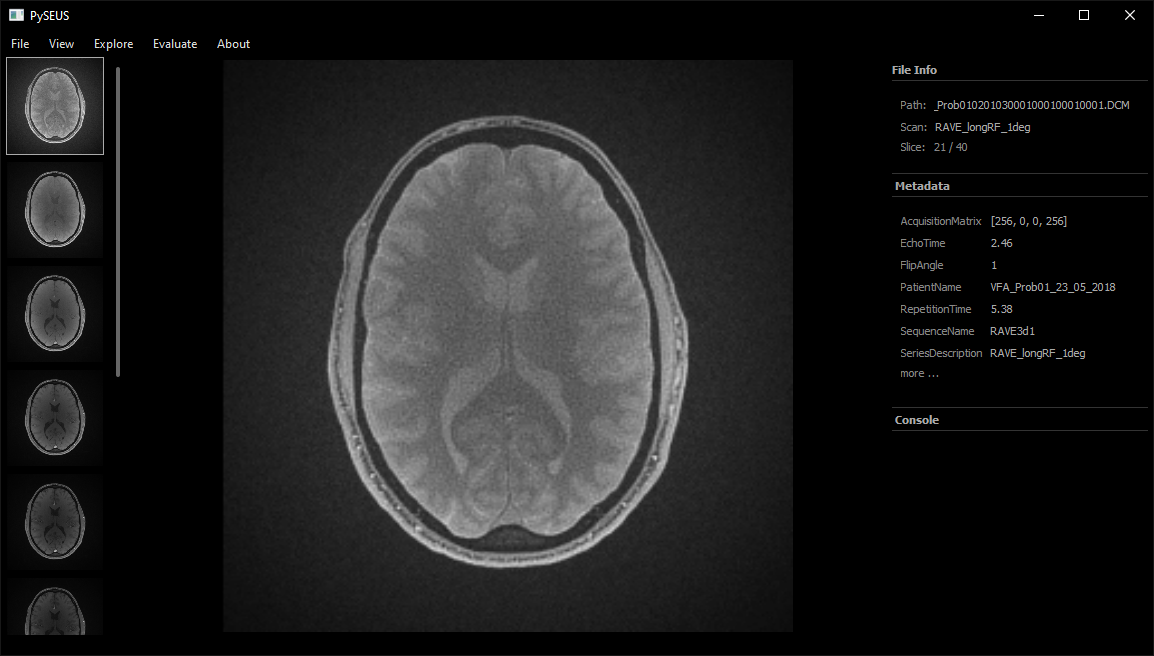
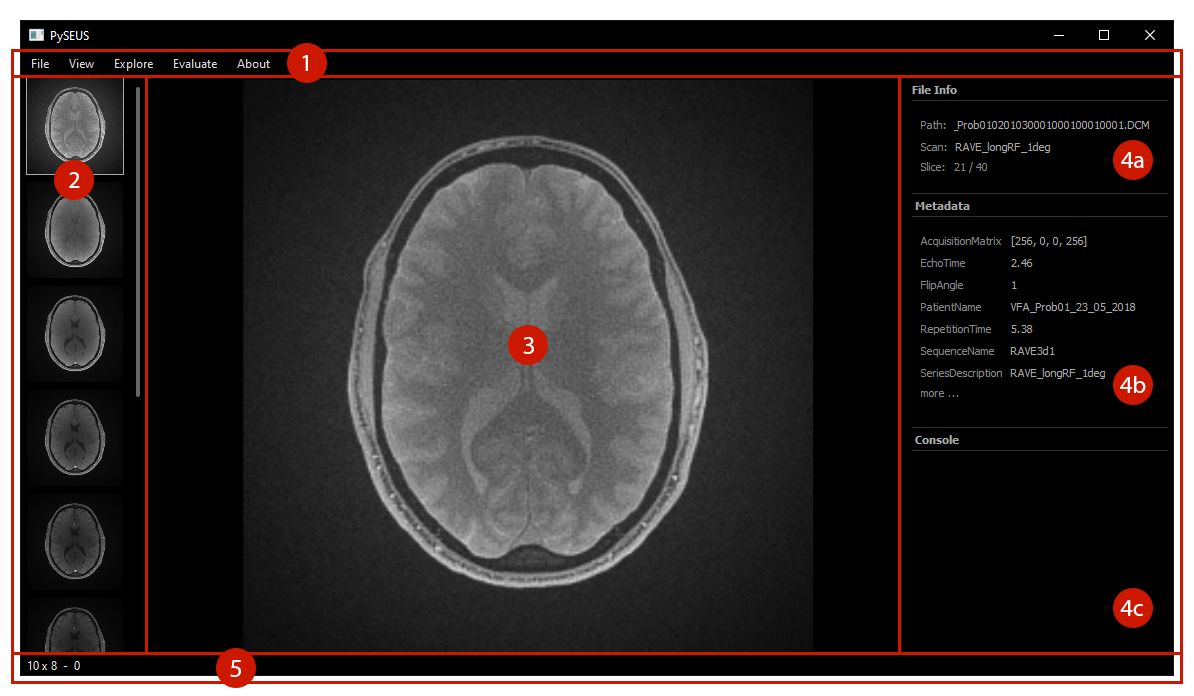
screenshot update

diff --git a/docs/source/usage/interface.rst b/docs/source/usage/interface.rst
@@ -4,27 +4,27 @@ Interface
 .. image:: ../_static/dicom_multi.png
    :width: 600
 
-**Menu bar**: The menu bar at the top allows access to all functions. See 
+**(1) Menu bar**: The menu bar at the top allows access to all functions. See 
 `Navigation <usage/navigation.html>`_ for the *View* and *Explore* menus and 
 `Evaluate <usage/evalute.html>`_ for the *Tools* menu.
 
-**Thumbnails**: For datasets with multiple scans, thumbnails of each scan are 
+**(2) Thumbnails**: For datasets with multiple scans, thumbnails of each scan are 
 dispalyed on the left. Clicking on a thumbnail will load the scan.
 
-**Viewport**: The viewport in the center displays the current slice. See 
+**(3) Viewport**: The viewport in the center displays the current slice. See 
 `Navigation <usage/navigation.html>`_ for how to adjust the viewport.
 
 **Sidebar**: The Sidebar collects various kinds of information.
 
-*File info*: Basic information about the current dataset is displayed at the 
+(4a) *File info*: Basic information about the current dataset is displayed at the 
 top. This contains the dataset path, the current scan and the current slice.
 
-*Metadata*: If a dataset contains metadata, the most common items are 
+(4b) *Metadata*: If a dataset contains metadata, the most common items are 
 displayed here. Clicking on *more* at the bottom will bring up a window
 with all available metadata.
 
-*Console*: Generic text output (like from the area tool) is displayed here.
+(4c) *Console*: Generic text output (like from the area tool) is displayed here.
 
-**Status bar**: The status bar at the bottom provides contextual information. 
+**(5) Status bar**: The status bar at the bottom provides contextual information. 
 While hovering over the image viewport, the coordinates and value of the pixel 
 under the cursor are displayed.
